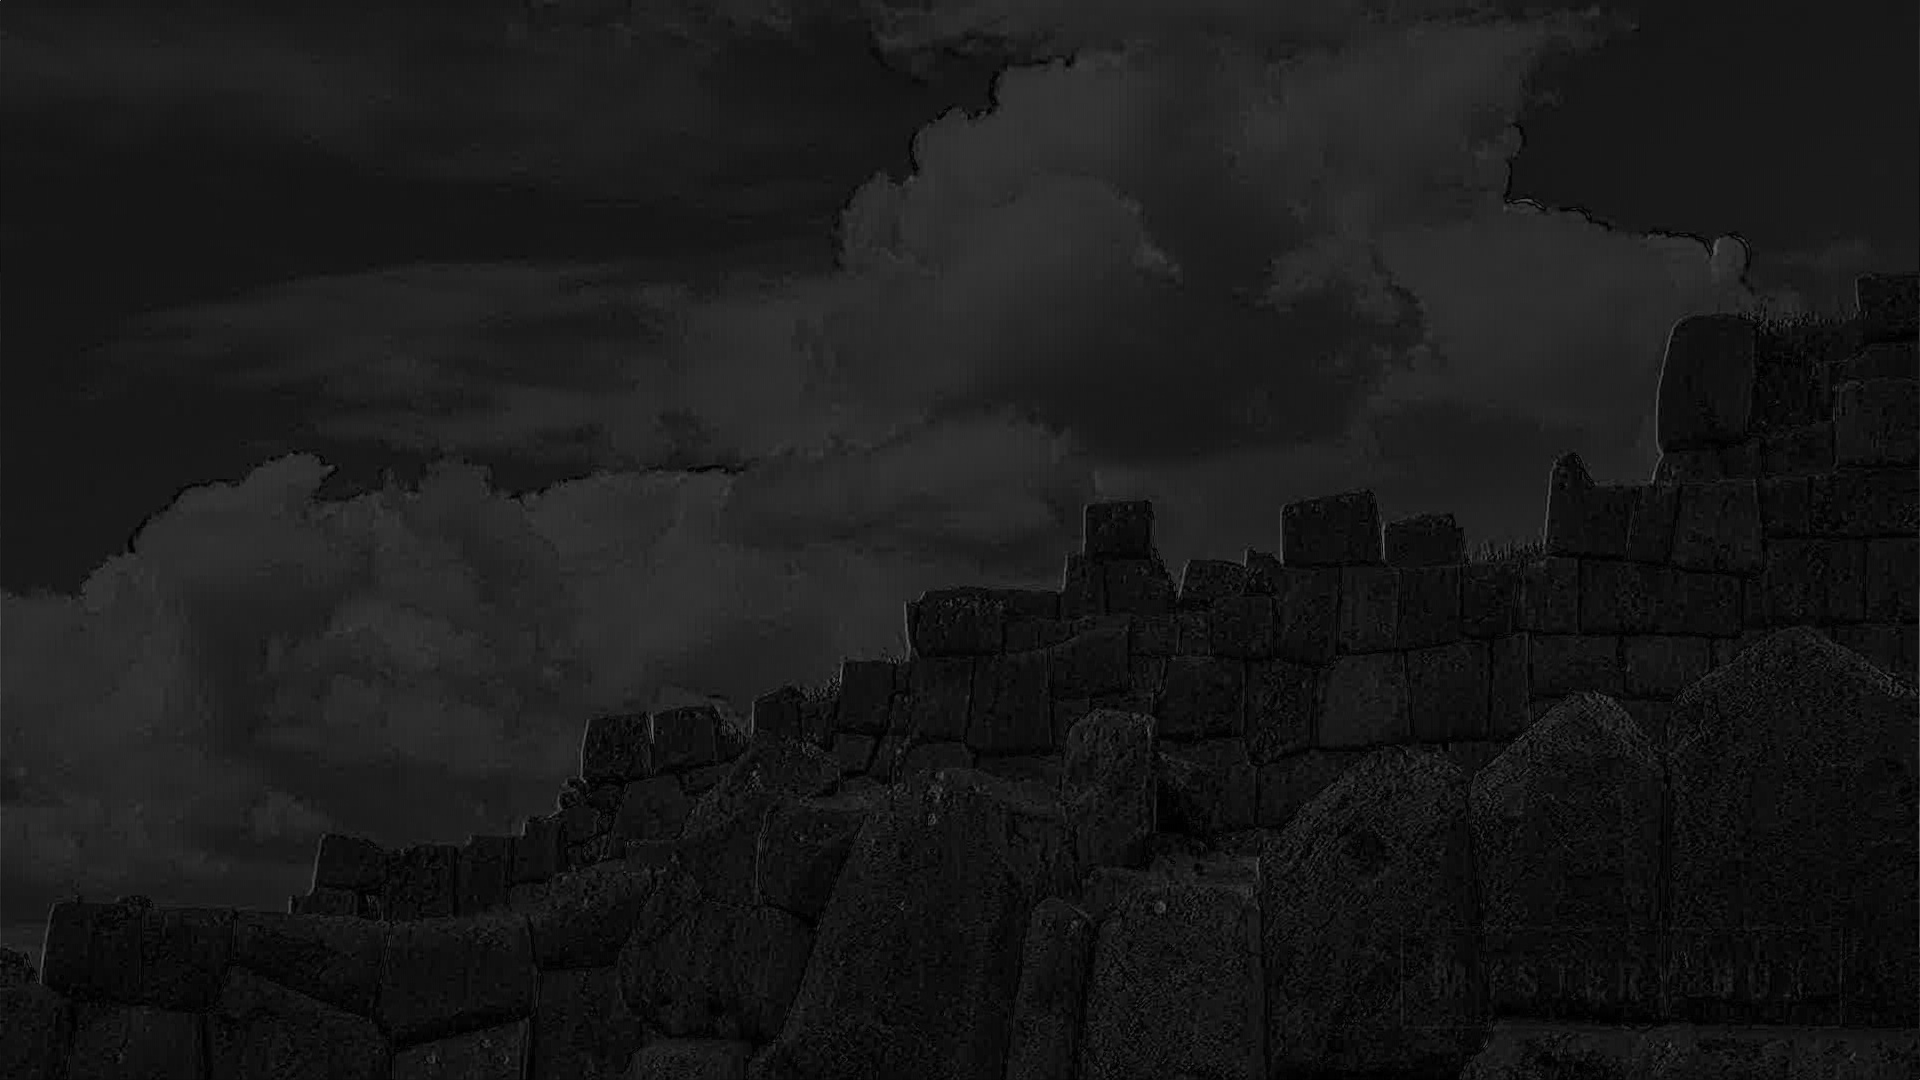
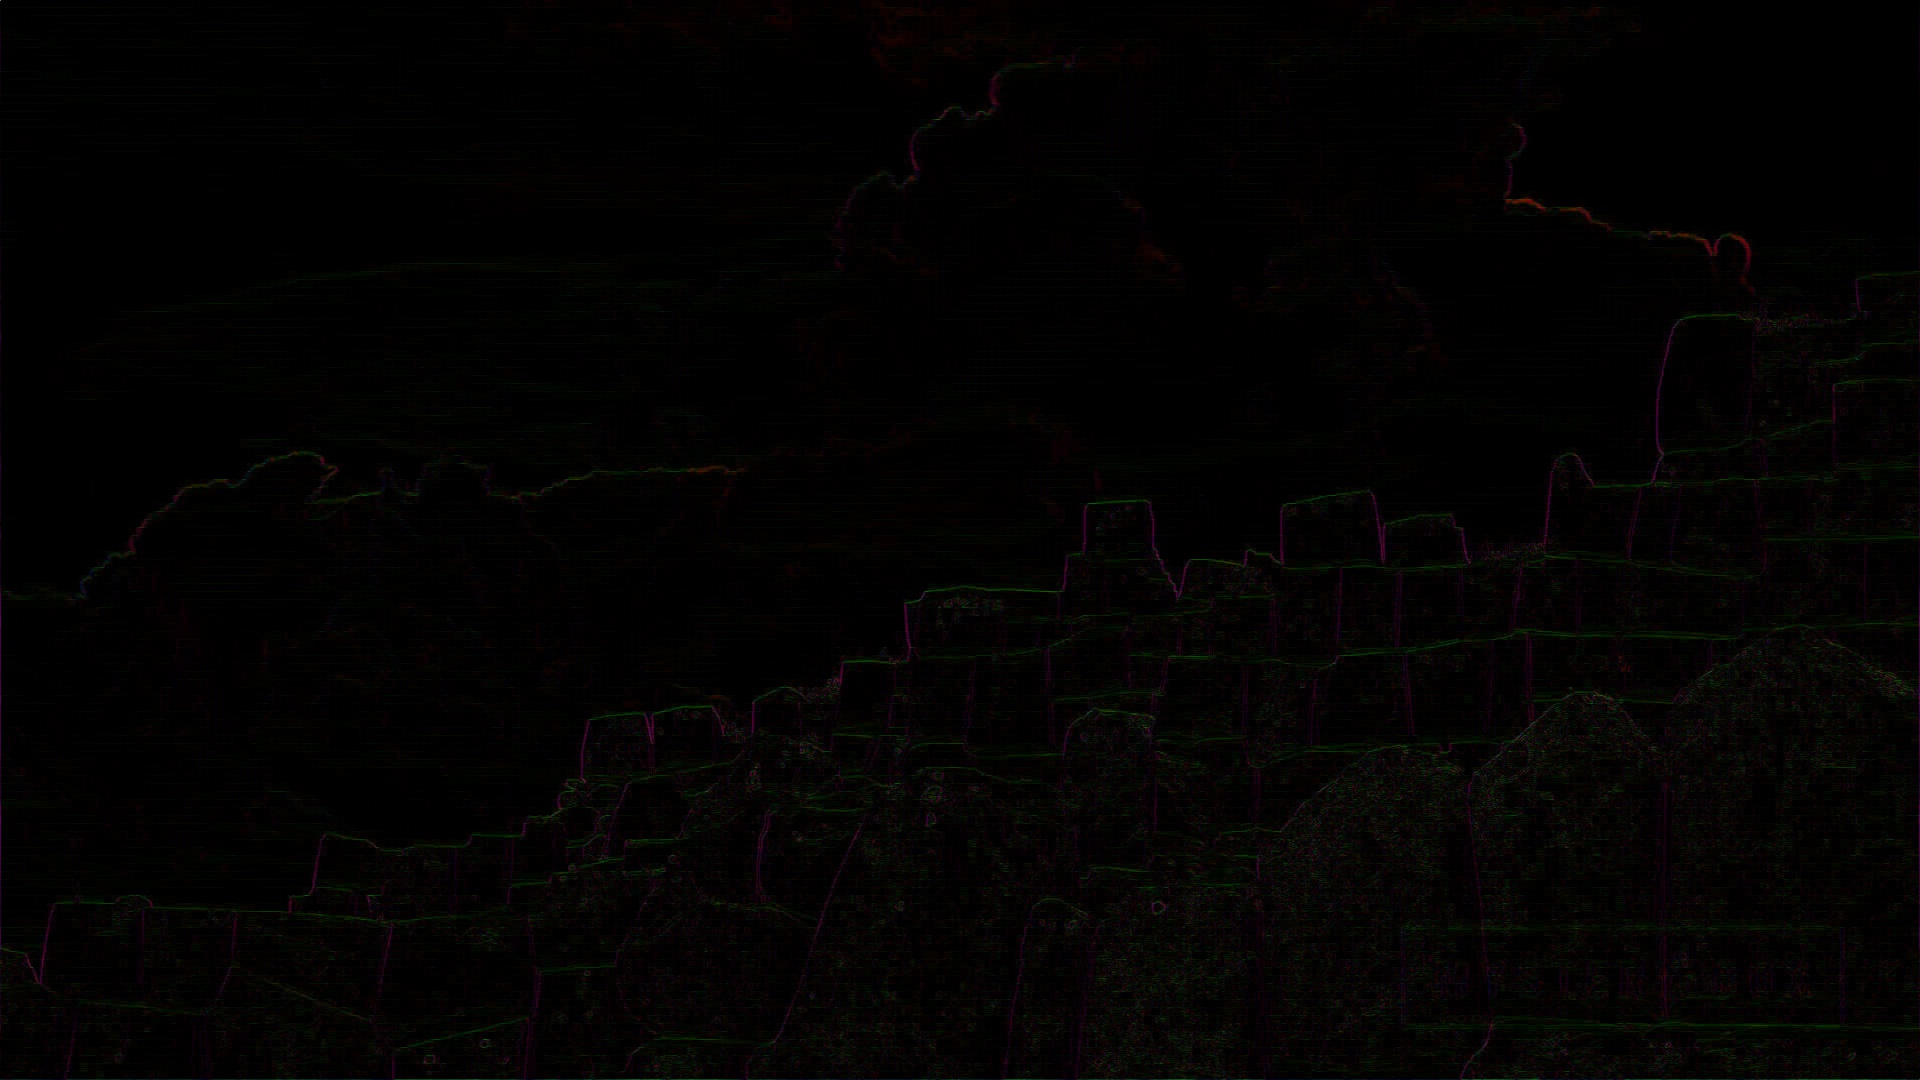
Colourise

diff --git a/main.cpp b/main.cpp
@@ -3,9 +3,6 @@
 #include <opencv2/opencv.hpp>
 using namespace cv;
 
-typedef unsigned char VT;
-typedef int B;
-
 template <class T>
 struct neighbourhood;
 
@@ -83,22 +80,26 @@ neighbourhood<T> fetch_hood(__uint16_t cols, MatConstIterator_<T> t0, MatConstIt
 
 int main()
 {
-  std::cout << "hi there" << std::endl;
+  std::cout << "Differentiating..." << std::endl;
   Mat image, image2;
   image = imread( "1.jpg", IMREAD_COLOR );
   image2 = imread( "2.jpg", IMREAD_COLOR );
+  Mat res(image);
 
   Mat grey, grey2;
   cvtColor(image, grey, COLOR_BGR2GRAY);
   cvtColor(image2, grey2, COLOR_BGR2GRAY);
-  Mat res(grey2);
+
+  typedef unsigned char VT;
+  typedef Vec<unsigned char, 3> V3T;
+  typedef int B;
 
   MatConstIterator_<VT> ptr1 = grey.begin<VT>();
   MatConstIterator_<VT> end1 = grey.end<VT>();
   MatConstIterator_<VT> ptr2 = grey2.begin<VT>();
   MatConstIterator_<VT> end2 = grey2.end<VT>();
 
-  MatIterator_<VT> ptr_res = res.begin<VT>();
+  MatIterator_<V3T> ptr_res = res.begin<V3T>();
 
   ++ptr1;
   ++ptr_res;
@@ -108,7 +109,8 @@ int main()
     B I_x = dee_I_dee_x<VT, B>(hood);
     B I_y = dee_I_dee_y<VT, B>(hood);
     B I_t = dee_I_dee_t<VT, B>(hood);
-    *ptr_res = abs(I_t);
+    *ptr_res = V3T(abs(I_x), abs(I_y), abs(I_t));
+
     ++ptr_res;
     ++ptr1;
     ++ptr2;
@@ -116,5 +118,5 @@ int main()
 
   imwrite("alpha.jpg", res);
 
-  std::cout << "done" << std::endl;
+  std::cout << "Done..." << std::endl;
 }
